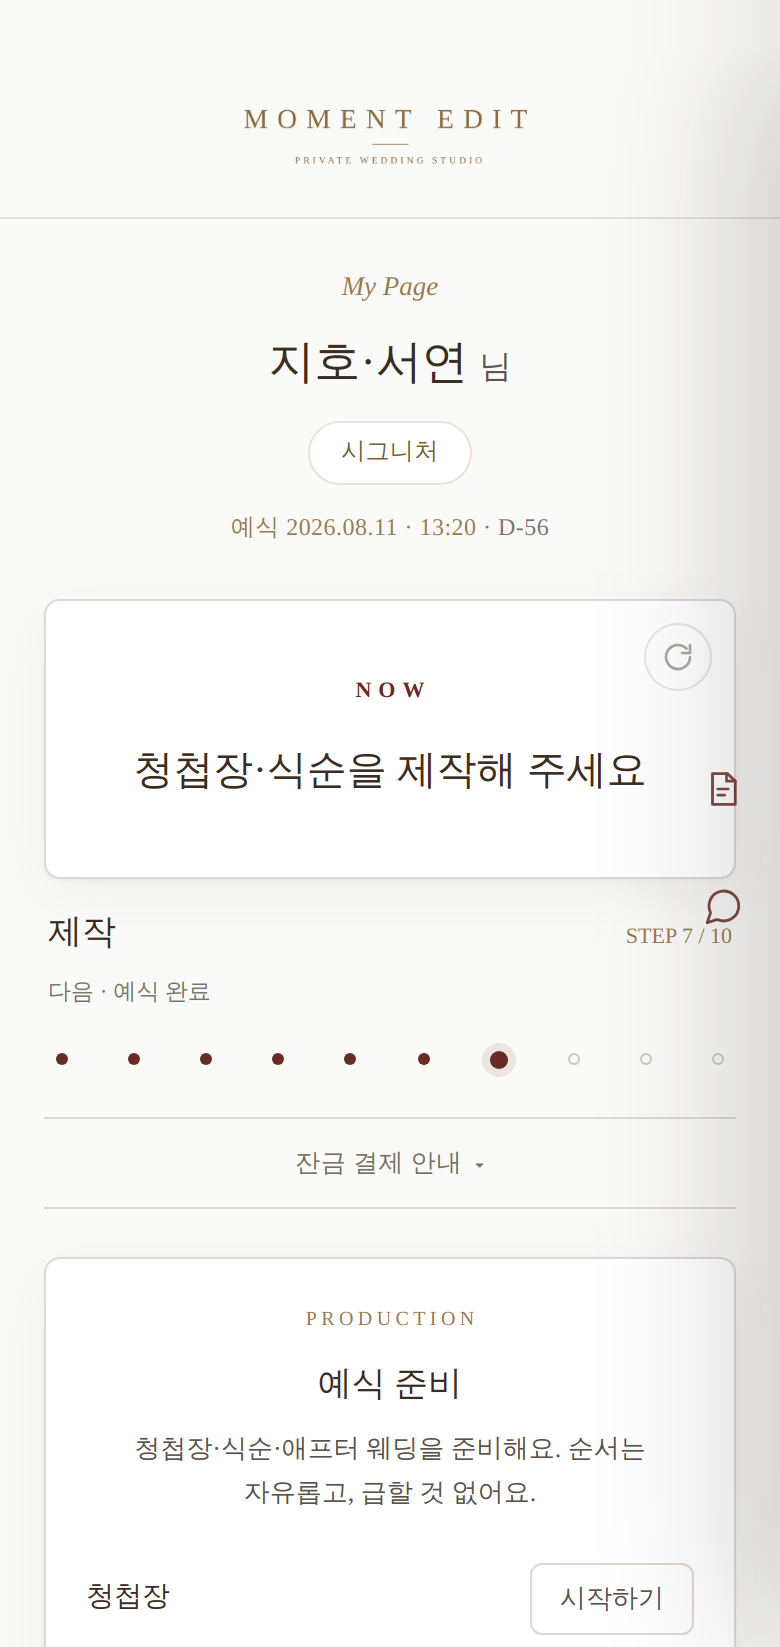
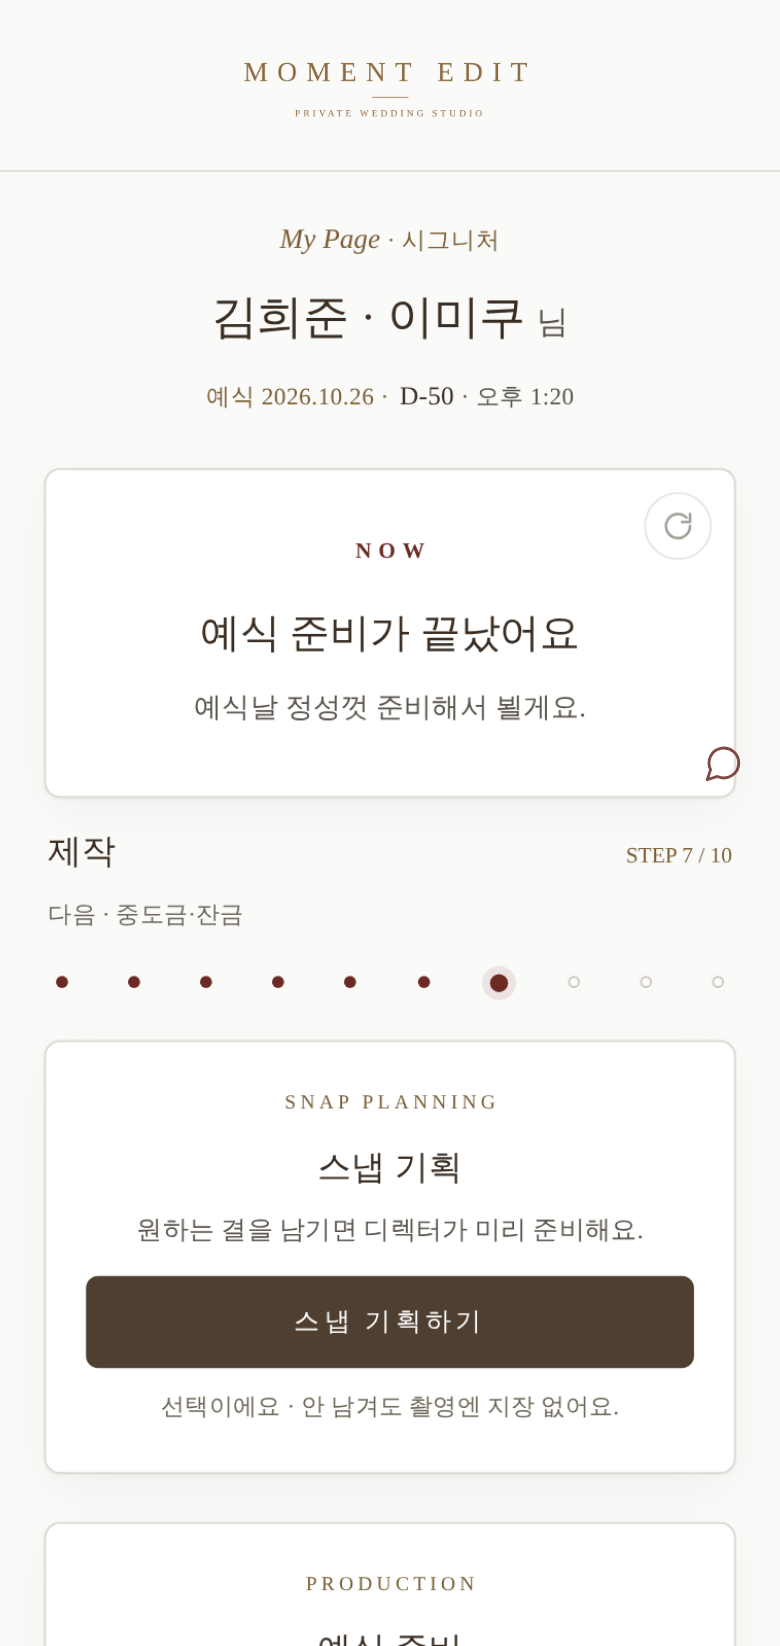
홈 목업 폰 5장을 「말」에서 「물건」으로 — 좌석·음료와 준비 허브 (#653)
* 홈 목업 폰 화면을 손이 아니라 스크립트로 뽑는다 [JR_SHOT_SPEC][SHOT_DPR]

사용자: "여기부분 모바일예씨화면 안에 화면 최신화해죠 · 고객입장에서 우와 할수있는부분"

홈 JOURNEY 목업의 폰 5장은 assets/journey/mp-*.png 정적 이미지인데,
마지막 갱신이 2026-07-31 이고 mypage.html 은 오늘(9/6)까지 바뀌었다.
그 한 달 사이에 들어온 기능(하객 사진 8/18 · 좌석 음료 · 커피쿠폰 8/21)이
홍보 화면에 하나도 안 나오고 있었다. 손으로 찍으니 이렇게 벌어진다.

scripts/journey-shots.mjs — 실제 마이페이지를 띄워 규격대로 찍는다.
  · 규격은 추측이 아니라 .jr-screen 의 aspect-ratio: 9/19 에서 온다 —
    390 × 823 을 DPR 2 로 찍어 780×1646(기존 자산 780×1647 과 같은 비율 · 크롭 0).
    2026-07-31 커밋 「스크린 9:19 정합으로 캡처 크롭 0」이 세운 규격을 그대로 잇는다.
  · --apply 로 assets/journey 에 바로 반영, 없으면 scripts/_jr-shots 에 시안만.

scripts/audit/_browser.mjs — newPage 에 deviceScaleFactor 통로를 냈다.
  홍보용 캡처는 2배로 찍어야 폰 목업에서 안 뭉갠다. 기본값(undefined)이면 종전과 완전히 같아
  기존 감사들의 렌더는 1픽셀도 안 바뀐다.

★자산은 아직 교체하지 않았다 — 어느 화면을 넣을지는 취향 판단이라 시안만 뽑아 사용자에게 보냈다
  (CLAUDE.md: 취향 판단이 필요한 변경은 시안으로 선택을 받은 뒤 푸시).
  후보로 좌석·음료(자리마다 하객 성함과 음료)와 예식 준비 허브(✓ 체크 목록)를 찍었다.
  ★허브는 빈 상태로 찍으면 전부 「시작하기」라 «할 일이 많다»로 읽힌다 — 트랙을 «완료»로 채워 찍는다.
    같은 화면인데 인상이 반대다.

.gitignore — 시안 폴더 제외. ★인라인 주석을 쓰면 그게 패턴의 일부가 되어 무시가 안 된다(실측).
  주석은 윗줄에 둔다.

검증: merge-guard rc=0 · 캡처 4장 전부 780x1646

Claude-Session: https://claude.ai/code/session_016hk43EQfH3eKQBoSgVqi9w

* 홈 목업 폰 5장을 「말」에서 「물건」으로 — 좌석·음료와 준비 허브를 넣는다

사용자: "고객입장에서 우와 할수있는부분 어필할수있는것들 생각하고 ·
너의 추천대로 · 직접 페이지를 확인해보면 확인할수있는것들과 없는것들이있으니 그부분들도 고려해봐"

종전 5장 중 셋(01 막힘없이 · 02 한눈에 · 03 투명하게)이 «말»이었다.
모든 웨딩 업체가 하는 약속이라 «우와»가 안 나온다. 물건 둘을 넣어 말 1 + 물건 4 로 바꾼다.
[…]

diff --git a/index.html b/index.html
@@ -6355,8 +6355,8 @@ var els=[document.querySelector('.hero-tease-main'),document.querySelector('.her
         <span class="jr-notch"></span>
         <div class="jr-screen">
           <picture><source type="image/webp" srcset="/assets/journey/mp-now.webp"><img class="jr-shot on" src="/assets/journey/mp-now.png" alt="마이페이지 진행 현황 · 예식 D-day와 지금 하실 일" loading="lazy" decoding="async"></picture>
-          <picture><source type="image/webp" srcset="/assets/journey/mp-locked.webp"><img class="jr-shot" src="/assets/journey/mp-locked.png" alt="마이페이지 진행 계획표 · 상담부터 예식까지 전 과정" loading="lazy" decoding="async"></picture>
-          <picture><source type="image/webp" srcset="/assets/journey/mp-ledger.webp"><img class="jr-shot" src="/assets/journey/mp-ledger.png" alt="마이페이지 내 내역 · 계약·금액·서류 투명 확인" loading="lazy" decoding="async"></picture>
+          <picture><source type="image/webp" srcset="/assets/journey/mp-seat.webp"><img class="jr-shot" src="/assets/journey/mp-seat.png" alt="마이페이지 좌석·음료 · 테이블 자리마다 하객분 성함과 음료를 정하는 배치도" loading="lazy" decoding="async"></picture>
+          <picture><source type="image/webp" srcset="/assets/journey/mp-prep.webp"><img class="jr-shot" src="/assets/journey/mp-prep.png" alt="마이페이지 예식 준비 · 청첩장·식순·좌석까지 끝난 것과 남은 것이 한 장에" loading="lazy" decoding="async"></picture>
           <picture><source type="image/webp" srcset="/assets/journey/mp-invite.webp"><img class="jr-shot" src="/assets/journey/mp-invite.png" alt="마이페이지 청첩장 만들기 · 이름과 초대 방식을 직접 입력하는 화면" loading="lazy" decoding="async"></picture>
           <!-- [PRM_JR5] 식순 위저드 실화면(2026-07-31 홍보 최신화) — 다른 곳엔 없는 도구를 말 대신 화면으로 보여준다 -->
           <picture><source type="image/webp" srcset="/assets/journey/mp-order.webp"><img class="jr-shot" src="/assets/journey/mp-order.png" alt="마이페이지 식순 만들기 · 순서를 넣고 빼며 두 분이 직접 다듬는 화면" loading="lazy" decoding="async"></picture>
@@ -6366,10 +6366,10 @@ var els=[document.querySelector('.hero-tease-main'),document.querySelector('.her
     </div>
     <ol class="jr-steps">
       <li class="jr-step on"><button type="button" class="jr-step-btn" aria-label="진행 현황 화면 보기"><span class="jr-n">01</span><span class="jr-step-tx"><b>플래너 없이도 막힘없이</b><i>지금 하실 일을 맨 먼저 안내하고, 때가 되면 먼저 알려드려요. 헤맬 일이 없어요.</i></span><span class="jr-step-bar"></span></button></li>
-      <li class="jr-step"><button type="button" class="jr-step-btn" aria-label="진행 계획표 화면 보기"><span class="jr-n">02</span><span class="jr-step-tx"><b>복잡한 절차 없이 한눈에</b><i>상담부터 예식까지 전 과정이 펼쳐져, 지금 어디인지 바로 보여요.</i></span><span class="jr-step-bar"></span></button></li>
-      <li class="jr-step"><button type="button" class="jr-step-btn" aria-label="내 내역 화면 보기"><span class="jr-n">03</span><span class="jr-step-tx"><b>투명하게, 언제든 확인</b><i>계약·금액·서류·일정까지, 가린 것 없이 언제든 내 손으로 확인해요.</i></span><span class="jr-step-bar"></span></button></li>
+      <li class="jr-step"><button type="button" class="jr-step-btn" aria-label="좌석·음료 화면 보기"><span class="jr-n">02</span><span class="jr-step-tx"><b>자리마다 이름과 음료를 정해요</b><i>테이블을 누르면 하객분 성함과 음료를 함께 골라요. 인원·요금은 자동으로 계산돼요.</i></span><span class="jr-step-bar"></span></button></li>
+      <li class="jr-step"><button type="button" class="jr-step-btn" aria-label="예식 준비 화면 보기"><span class="jr-n">03</span><span class="jr-step-tx"><b>무엇이 끝났고 무엇이 남았는지</b><i>청첩장·식순·좌석·애프터 웨딩까지, 두 분이 정한 것과 남은 것이 한 장에 있어요.</i></span><span class="jr-step-bar"></span></button></li>
       <li class="jr-step"><button type="button" class="jr-step-btn" aria-label="청첩장 만들기 화면 보기"><span class="jr-n">04</span><span class="jr-step-tx"><b>청첩장, 두 편을 직접 완성해요</b><i>온라인·오프라인 두 편의 이름·문구·디자인을 두 분이 직접, 예식 전까지 몇 번이든 고쳐요.</i></span><span class="jr-step-bar"></span></button></li>
-      <li class="jr-step"><button type="button" class="jr-step-btn" aria-label="식순 만들기 화면 보기"><span class="jr-n">05</span><span class="jr-step-tx"><b>식순은 눌러 보며 완성돼요</b><i>세 코스에서 골라 순서를 넣고 빼고, 진행 안내까지 미리 들어봐요. 완성본이 그대로 당일의 대본이 됩니다.</i></span><span class="jr-step-bar"></span></button></li>
+      <li class="jr-step"><button type="button" class="jr-step-btn" aria-label="식순 만들기 화면 보기"><span class="jr-n">05</span><span class="jr-step-tx"><b>식순은 눌러 보며 완성돼요</b><i>하루 140분 가운데 본식을 두 분이 고르고 다듬어요. 완성본이 그대로 당일의 대본이 됩니다.</i></span><span class="jr-step-bar"></span></button></li>
     </ol>
   </div>
 </div>
